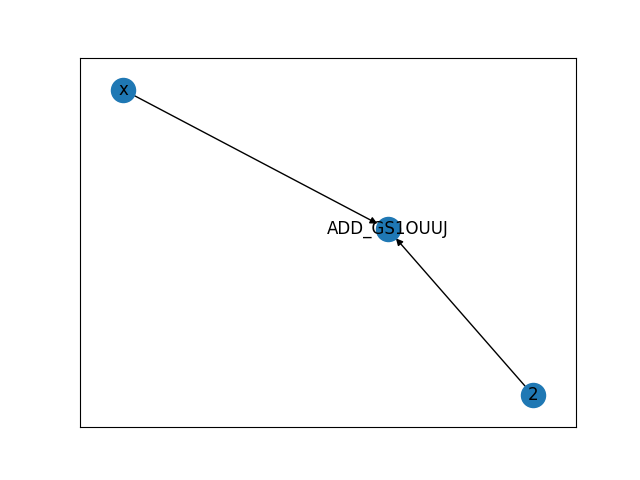
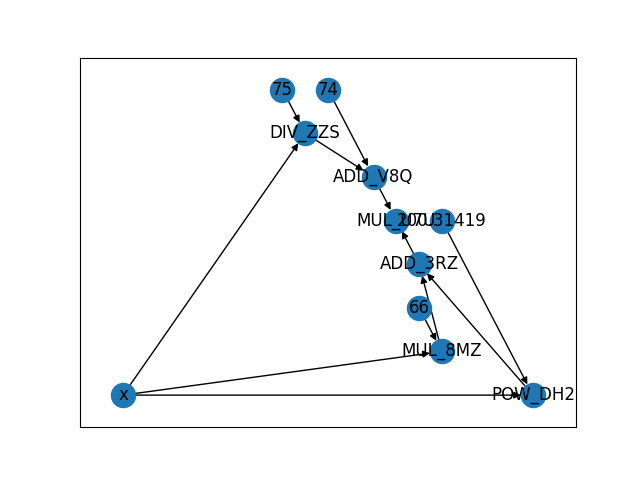
Fixed tokenize function to accept negative

diff --git a/CalCoolUs/preprocess.py b/CalCoolUs/preprocess.py
@@ -5,14 +5,24 @@ from matplotlib import pyplot as plt
 class ShuntingYard:
 	def __init__(self):
 		self.operations = ["+", "-", "/", "*", "^"]
-
+	
 	def tokenize(self, string):
 		r = [""]
+		string = string.replace(" ", "")
 		for i in string:
 			if (i.isdigit() or i == ".") and self.isfloat(r[-1]):
 				r[-1] = r[-1] + i
 			else:
 				r.append(i)
+		lowerBound = 0	
+		upperBound = len(r) - 1
+		while lowerBound < upperBound:
+			if r[lowerBound]== "-" and (r[lowerBound - 1] in self.operations or r[lowerBound - 1] == "(" or lowerBound == 0):
+				number = r[lowerBound + 1]
+				r[lowerBound] = f"-{number}"
+				r.pop(lowerBound + 1)
+				upperBound -= 1
+			lowerBound += 1
 		return r[1:]
 
 	def isfloat(self, number):

diff --git a/test.py b/test.py
@@ -5,14 +5,15 @@ from CalCoolUs.preprocess import ShuntingYard
 
 myshunt = ShuntingYard()
 
+print(myshunt.tokenize("( (( -x^ -200.31419)) +66 * -75) * ( -74 + -75 / x )"))
+
 shuntres = myshunt.getPostfix("( (( x^ 200.31419)) +66 * x) * ( 74 + 75 / x )")
 print(shuntres)
-
 from CalCoolUs.preprocess import ASTGraph
 
 myASTGraph = ASTGraph()
 graph = myASTGraph.getAST(shuntres)
 pos = nx.planar_layout(graph, scale=40)
 nx.draw_networkx(graph, pos=pos, with_labels=True)
-# plt.savefig("fig.png")
-plt.show(bbox_inches='tight')
+plt.savefig("fig.png")
+# plt.show(bbox_inches='tight')
